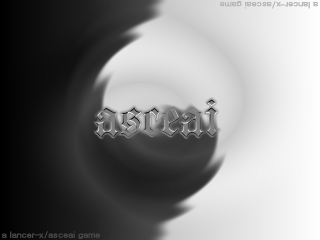
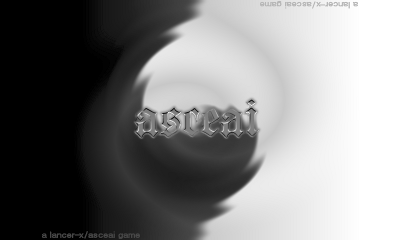
adapt to 400x240

diff --git a/src/levelblit.c b/src/levelblit.c
@@ -47,6 +47,8 @@
 
 #define PLAYERW 16
 #define PLAYERH 24
+#define SCREEN_W 400
+#define SCREEN_H 240
 
 #define MERITOUS_VERSION "v 1.2"
 
@@ -251,9 +253,6 @@ void DrawCircleExDefault(int x, int y, int r, int r2, unsigned char c);
 
 void ThinLine(SDL_Surface *scr, int x1, int y1, int x2, int y2, Uint8 col);
 void LockDoors(int r);
-
-#define SCREEN_W 320
-#define SCREEN_H 240
 
 int vol = MIX_MAX_VOLUME;
 int vol_se = MIX_MAX_VOLUME;
@@ -532,7 +531,7 @@ static	int precalc_sine[400];
 
 			SDL_BlitSurface(title_pr, NULL, screen, NULL);
 
-			draw_text(17, 156/2, MERITOUS_VERSION, 112 + sin((float)ticker_tick / 15)*30);
+			draw_text(40 + 17, 156/2, MERITOUS_VERSION, 112 + sin((float)ticker_tick / 15)*30);
 			if (can_continue) draw_text((SCREEN_W - 14*8)/2, 155, "Continue", 255);
 			draw_text((SCREEN_W - 14*8)/2, 155 + can_continue*10, "New Game", 255);
 			draw_text((SCREEN_W - 14*8)/2, 165 + can_continue*10, "New Game (Wuss mode)", 255);
@@ -671,14 +670,14 @@ void ProgressBarScreen(int part, float progress, char *message, float t_parts)
 {
 	memset(screen->pixels, 0, SCREEN_W*SCREEN_H);
 
-	DrawRect(200/2, 108, 240/2, 50/2, 80);
-	DrawRect(202/2, 219/2, 236/2, 46/2, 20);
-	draw_text(232/2, 228/2, message, 255);
-	DrawRect(232/2, 244/2, 176/2, 12/2, 128);
-	DrawRect(234/2, 246/2, 172/2, 8/2, 0);
+	DrawRect(200/2 + 40, 108, 2/2, 50/2, 80);
+	DrawRect(202/2 + 40, 219/2, 236/2, 46/2, 20);
+	draw_text(232/2 + 40, 228/2, message, 255);
+	DrawRect(232/2 + 40, 244/2, 176/2, 12/2, 128);
+	DrawRect(234/2 + 40, 246/2, 172/2, 8/2, 0);
 
 	if ((int)(172.0 * progress / t_parts + (172.0 / t_parts * part)) > 0) {
-		DrawRect(234/2, 246/2, (int)(172.0/2 * progress / t_parts + (172.0/2 / t_parts * part)), 8/2, 200);
+		DrawRect(234/2 + 40, 246/2, (int)(172.0/2 * progress / t_parts + (172.0/2 / t_parts * part)), 8/2, 200);
 	}
 	VideoUpdate();
 	DummyEventPoll();
@@ -884,9 +883,9 @@ int DungeonPlay(char *fname)
 		}
 
 		if (!map_enabled) {
-			ScrollTo((player_x + PLAYERW/2 - 320/2)-4, (player_y + PLAYERH/2 - 240/2)-8);
+			ScrollTo((player_x + PLAYERW/2 - SCREEN_W/2)-4, (player_y + PLAYERH/2 - SCREEN_H/2)-8);
 			DrawLevel(scroll_x, scroll_y, 1, 1);
-			//DrawLevel(player_x + 8 - 320, player_y + 12 - 240);
+			//DrawLevel(player_x + 8 - SCREEN_W, player_y + 12 - SCREEN_H);
 
 			if (player_dying == 0) {
 				DrawShield();
@@ -904,9 +903,9 @@ int DungeonPlay(char *fname)
 					}
 				}
 
-				DrawPlayer(312/2, 228/2, player_dir, player_wlk / wlk_wait);
+				DrawPlayer((SCREEN_W-(PLAYERW/2))/2, (SCREEN_H-(PLAYERH/2))/2, player_dir, player_wlk / wlk_wait);
 			} else {
-				if (t % 2 == 0) DrawPlayer(312/2, 228/2, player_dir, player_wlk / wlk_wait);
+				if (t % 2 == 0) DrawPlayer((SCREEN_W-(PLAYERW/2))/2, (SCREEN_H-(PLAYERH/2))/2, player_dir, player_wlk / wlk_wait);
 
 				if (!game_paused)
 					player_dying++;
@@ -990,7 +989,7 @@ int DungeonPlay(char *fname)
 			}
 
 			if (circuit_release > 0) {
-				DrawCircle(release_x - player_x + 320/2+4, release_y - player_y + 240/2+4, circuit_release * release_range / 20,sin((float)circuit_release / 20.0)*127+127);
+				DrawCircle(release_x - player_x + SCREEN_W/2+4, release_y - player_y + SCREEN_H/2+4, circuit_release * release_range / 20,sin((float)circuit_release / 20.0)*127+127);
 				if (!game_paused) {
 					CircuitBullets(release_x, release_y, circuit_release * release_range / 20);
 					//HurtEnemies(release_x, release_y, circuit_release * release_range / 20, release_str);
@@ -1085,13 +1084,13 @@ if (!tele_select) {
 				sprintf(buf+1, "**");
 			}
 
-			draw_text(295, 4, buf, 200);
+			draw_text(SCREEN_W - 25, 4, buf, 200);
 
-			DrawRect(295, 13, 24, 4, 240);
-			DrawRect(296, 14, 22, 2, 0);
+			DrawRect(SCREEN_W - 25, 13, 24, 4, 240);
+			DrawRect(SCREEN_W - 24, 14, 22, 2, 0);
 			i = (player_lives_part * 22 / 88);
 			if (i > 0) {
-				DrawRect(296, 14, i, 2, 160 + (t % 40));
+				DrawRect(SCREEN_W - 24, 14, i, 2, 160 + (t % 40));
 			}
 		}
 }
@@ -1112,7 +1111,7 @@ if (!tele_select) {
 		}
 
 if (!tele_select)
-		draw_text(295, 18 - (5*training), buf, 200);
+		draw_text(SCREEN_W - 25, 18 - (5*training), buf, 200);
 
 		DrawRect(0, SCREEN_H-14, SCREEN_W, 14, 0);
 		DrawRect(1, SCREEN_H-13, SCREEN_W-2, 12, 32);
@@ -1157,8 +1156,8 @@ if (!tele_select)
 		}
 
 		if (voluntary_exit) {
-			DrawRect(4, 80, 316-4, 80, 128);
-			DrawRect(20, 88, 300-20, 64, 64);
+			DrawRect(4, 80, SCREEN_W - 4 - 4, 80, 128);
+			DrawRect(20, 88, SCREEN_W - 20 - 20, 64, 64);
 			draw_text(((SCREEN_W/2) - ((30 * 8)/2)) , ((SCREEN_H - 8)  - 4)/2, "Are you sure you want to quit?", 255);
 			draw_text(((SCREEN_W/2) - ((23 * 8)/2))+16, ((SCREEN_H - 8) + 14)/2, "Press B to confirm.", 255);
 		}
@@ -1294,7 +1293,7 @@ if (!tele_select)
 
 	if ((player_lives == 0) && (!training)) {
 		SDL_FillRect(screen, NULL, 0);
-		draw_text((17*8)/2+((320/2)/2)/2-16, 240/2-4, "G A M E   O V E R", 255);
+		draw_text((17*8)/2+((SCREEN_W/2)/2)/2-16, SCREEN_H/2-4, "G A M E   O V E R", 255);
 		VideoUpdate();
 		SDL_Delay(2000);
 	}
@@ -1566,7 +1565,7 @@ void DrawLevel(int off_x, int off_y, int hide_not_visited, int fog_of_war)
 	int x, y, i;
 	int resolve_x, resolve_y;
 
-	DrawRect(0, 0, 320, 240, 255);
+	DrawRect(0, 0, 400, 240, 255);
 
 	if (tiles == NULL) {
 		tiles = IMG_Load("romfs:/i/tileset.png");
@@ -2172,11 +2171,11 @@ void DrawShield()
 		belts = s_size - 15;
 		s_size = 15;
 	}
-	DrawCircleEx(320/2+4, 240/2+4, 28+s_size, 28-s_size, 128 + (shield_hp*127/player_shield) - (50*(shield_hp<player_shield) + shield_recover) - 45 + ((t%4)*15));
+	DrawCircleEx(400/2+4, 240/2+4, 28+s_size, 28-s_size, 128 + (shield_hp*127/player_shield) - (50*(shield_hp<player_shield) + shield_recover) - 45 + ((t%4)*15));
 
 	for (i = 0; i < belts; i++) {
 		bpos = 13 + (30 * (i+1) / (belts+1));
-		DrawCircleEx(320/2+4, 240/2+4, bpos + 1, bpos - 1, ((i+t)%6*12));
+		DrawCircleEx(400/2+4, 240/2+4, bpos + 1, bpos - 1, ((i+t)%6*12));
 	}
 }
 
@@ -2570,7 +2569,7 @@ void SpecialTile(int x, int y)
 	static int otext = 0;
 	static int t = 0;
 	unsigned char tile;
-	char message[102] = "";
+	char message[128] = "";
 	//char message2[100] = "";
 
 	tile = Get(x, y);
@@ -2682,29 +2681,29 @@ void SpecialTile(int x, int y)
 
 	if (message[0] == 0) return;
 
-	DrawRect(0/*300 - strlen(message)*8  - 20*/, 100, 280+40, 54, 200);
-	DrawRect(5/*300 - strlen(message)*8  - 15*/, 105, 280+30, 44, 32);
-	DrawRect(10/*300 - strlen(message)*8  - 10*/, 110, 280+20, 34, 64);
+	DrawRect(0/*300 - strlen(message)*8  - 20*/, 100, SCREEN_W, 54, 200);
+	DrawRect(5/*300 - strlen(message)*8  - 15*/, 100 + 5, SCREEN_W - 10, 44, 32);
+	DrawRect(10/*300 - strlen(message)*8  - 10*/, 100 + 10, SCREEN_W - 20, 34, 64);
 
-    // adapt to 320x240
-    if(strlen(message) > 35 && strlen(message) <= 35*2)
+    // adapt to 400x240
+    if(strlen(message) > 44 && strlen(message) <= 44*2)
     {
         //int pasteStart = 0;
         //int i = 0;
-        /*for(i=35;i<100;i++)
+        /*for(i=44;i<100;i++)
         {
             message2[pasteStart] = message[i];
             pasteStart++;
             message[i] = "";
         }*/
-        memmove(message+36,message+35,66);
-        message[35] = '\n';
+        memmove(message+45,message+44,66);
+        message[44] = '\n';
         //message2[strlen(message)] = '\n';
 
         draw_text(/*300 - strlen(message)*8*/20, 120, message, t%16<8 ? 255 : 192);
         //draw_text(/*300 - strlen(message)*8*/10, 132, message2, t%16<8 ? 255 : 192);
     }
-    else if(strlen(message) > 35*2)
+    else if(strlen(message) > 44*2)
     {
         draw_text(20, 120, message, t%16<8 ? 255 : 192);
     }

diff --git a/src/help.c b/src/help.c
@@ -101,13 +101,13 @@ void DisplayHelp()
 	int follow_link = 0;
 	char linkfollow[20] = "";
 
-	DrawRect(23, 23, 274, 194, 0);
-	DrawRect(24, 24, 272, 192, 200);
-	DrawRect(25, 25, 270, 190, 255);
-	DrawRect(26, 26, 268, 188, 200);
-	DrawRect(27, 27, 266, 186, 100);
-	DrawRect(30, 30, 260, 180, 20);
-	DrawRect(35, 35, 250, 170, 60);
+	DrawRect(23, 23, 274 + 80, 194, 0);
+	DrawRect(24, 24, 272 + 80, 192, 200);
+	DrawRect(25, 25, 270 + 80, 190, 255);
+	DrawRect(26, 26, 268 + 80, 188, 200);
+	DrawRect(27, 27, 266 + 80, 186, 100);
+	DrawRect(30, 30, 260 + 80, 180, 20);
+	DrawRect(35, 35, 250 + 80, 170, 60);
 
 	// 70x40 display
 	current_sec = hlp->s[my_sec];
@@ -117,7 +117,7 @@ void DisplayHelp()
 	if (my_line >= (current_sec->lines)) my_line = current_sec->lines - 1;
 	for (i = 0; i < 2; i++) {
 		draw_text(23+i, 40+(my_cursor - my_line)*10, "->", 255);
-		draw_text(279+i, 40+(my_cursor - my_line)*10, "<-", 255);
+		draw_text((SCREEN_W-41)+i, 40+(my_cursor - my_line)*10, "<-", 255);
 	}
 
 	for (i = 0; i < 16; i++) {
@@ -129,13 +129,13 @@ void DisplayHelp()
 				switch (ltext[0]) {
 					case '!':
 
-						draw_text(40 + (240-strlen(ltext+1)*8)/2, 40+i*10, ltext+1, 255);
+						draw_text(80 + (240-strlen(ltext+1)*8)/2, 40+i*10, ltext+1, 255);
 						break;
 					case '?':
 						strncpy(c_ident, ltext+1, strchr(ltext+1, '?')-ltext-1);
 						c_ident[strchr(ltext+1, '?')-ltext-1] = 0;
 
-						draw_text(40, 40+i*10, strchr(ltext+1, '?')+1, my_cursor == line_num ? 200+(tick%16)*3 : 150);
+						draw_text(80, 40+i*10, strchr(ltext+1, '?')+1, my_cursor == line_num ? 200+(tick%16)*3 : 150);
 						if ((my_link == 1)&&(my_cursor == line_num)) {
 							follow_link = 1;
 							//my_link = 0;
@@ -143,7 +143,7 @@ void DisplayHelp()
 						}
 						break;
 					default:
-                            draw_text(40, 40+i*10, ltext, 200);
+                            draw_text(80, 40+i*10, ltext, 200);
 						break;
 				}
 			}

diff --git a/src/ending.c b/src/ending.c
@@ -502,9 +502,9 @@ void DrawStream(int t)
 			if (t == 251) {
 				SND_CircuitRelease(1000);
 			}
-			DrawCircle(320+32 - scr_x, 240 - scr_y, (t - 254) * 10, 255);
-			DrawCircle(320+32 - scr_x, 240 - scr_y, (t - 252) * 10, 225);
-			DrawCircle(320+32 - scr_x, 240 - scr_y, (t - 250) * 10, 195);
+			DrawCircle(SCREEN_W+32 - scr_x, SCREEN_H - scr_y, (t - 254) * 10, 255);
+			DrawCircle(SCREEN_W+32 - scr_x, SCREEN_H - scr_y, (t - 252) * 10, 225);
+			DrawCircle(SCREEN_W+32 - scr_x, SCREEN_H - scr_y, (t - 250) * 10, 195);
 		}
 	}
 
@@ -642,12 +642,12 @@ void DrawScrolly(int t)
 		a_dir = ((float)t / 10.0) + (M_PI*(float)i/2);
 
 		for (j = 10; j >= 0; j--) {
-			DrawCircleEx(320+cos(a_dir)*v_radius, 240+sin(a_dir)*v_radius, 22 + j * 2, 0, abs(j-3) * 15);
+			DrawCircleEx(SCREEN_W+cos(a_dir)*v_radius, SCREEN_H+sin(a_dir)*v_radius, 22 + j * 2, 0, abs(j-3) * 15);
 		}
-		DrawCircleEx(320+cos(a_dir)*v_radius, 240+sin(a_dir)*v_radius, 20, 0, 0);
+		DrawCircleEx(SCREEN_W+cos(a_dir)*v_radius, SCREEN_H+sin(a_dir)*v_radius, 20, 0, 0);
 
-		draw_to.x = 320 + cos(a_dir) * v_radius - 16;
-		draw_to.y = 240 + sin(a_dir) * v_radius - 16;
+		draw_to.x = SCREEN_W + cos(a_dir) * v_radius - 16;
+		draw_to.y = SCREEN_H + sin(a_dir) * v_radius - 16;
 		SDL_BlitSurface(artifact_spr, &draw_from, screen, &draw_to);
 	}
 
@@ -670,15 +670,15 @@ void DrawCircuitFlash(int t, int method)
 			xpos = rand()%641;
 			ypos = rand()%481;
 		} else {
-			xpos = 320;
-			ypos = 240;
+			xpos = SCREEN_W;
+			ypos = SCREEN_H;
 		}
 	}
 
 	from.x = xpos;
 	from.y = ypos;
-	from.w = 640;
-	from.h = 480;
+	from.w = SCREEN_W * 2;
+	from.h = SCREEN_H * 2;
 
 	SDL_BlitSurface(circ, &from, screen, NULL);
 

diff --git a/src/gamemap.c b/src/gamemap.c
@@ -176,13 +176,13 @@ void DisplayAutomap()
 	if (minimap_scroll_x >= 512 - (200/2)) minimap_scroll_x = 512 - (200/2) - 1;
 	if (minimap_scroll_y >= 512 - (229/2)) minimap_scroll_y = 512 - (229/2) - 1;
 
-	DrawRect(2, 32, 432/2, 190, 255);
+	DrawRect(40 + 2, 32, 432/2, 190, 255);
 	t++;
 
 	for (y = 0; y < 54; y++) {
 		for (x = 0; x < 54; x++) {
 			xcol = 0;
-			df_x = x * 8 + 2-110;
+			df_x = 40 + x * 8 + 2-110;
 			df_y = y * 8 + 32-127;
 
 			rx = c_scroll_x / 32 - 27 + x;
@@ -279,7 +279,7 @@ void DisplayAutomap()
 	SDL_FillRect(screen, &position, 255);
 	SDL_BlitSurface(automap, &from, screen, &position);*/
 
-    position.x = (434/2)+3;
+    position.x = 40 + (434/2)+3;
 	position.y = 32;
 	position.w = 97;
 	position.h = 236;
@@ -350,11 +350,11 @@ void DisplayAutomap()
 	// |            |     |
 	// +-------2----+-----+
 
-	DrawRect(0, 29, 320, 3, 230-32); 	// 1
-	DrawRect(0, 227-5, 320, 4, 230-32); 	// 2
-	DrawRect(0, 29, 4, 227-32, 230-32); 	// 3
-	DrawRect(434/2, 29, 3, 227-32, 230-32); 	// 4
-	DrawRect(317, 29, 3, 227-32, 230-32); 	// 5
+	DrawRect(0, 29, 400, 3, 230-32); 	// 1
+	DrawRect(0, 227-5, 400, 4, 230-32); 	// 2
+	DrawRect(0, 29, 44, 227-32, 230-32); 	// 3
+	DrawRect(40 + 434/2, 29, 3, 227-32, 230-32); 	// 4
+	DrawRect(40 + 317, 29, 40 + 3, 227-32, 230-32); 	// 5
 	//DrawRect(437/2, 127-1-2, 200/2, 3, 230-32); 	// 6
 
 }

diff --git a/src/levelblit.h b/src/levelblit.h
@@ -27,6 +27,9 @@
 #define PLAYERW 16
 #define PLAYERH 24
 
+#define SCREEN_W 400
+#define SCREEN_H 240
+
 extern SDL_Surface *screen;
 
 extern int player_x, player_y;
